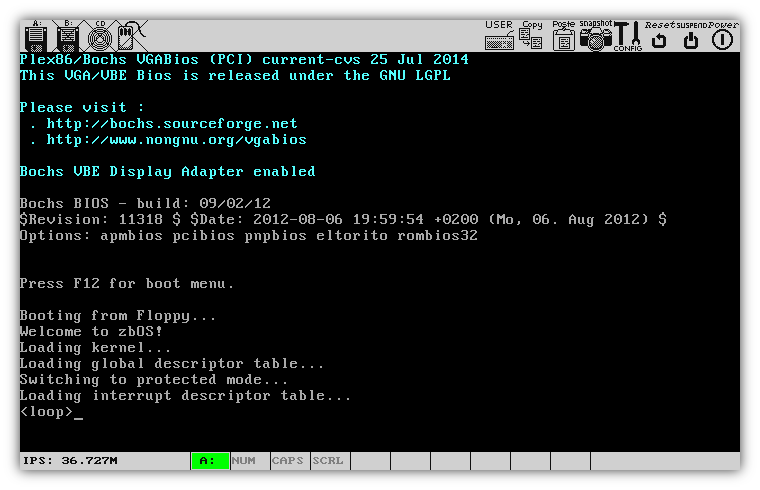
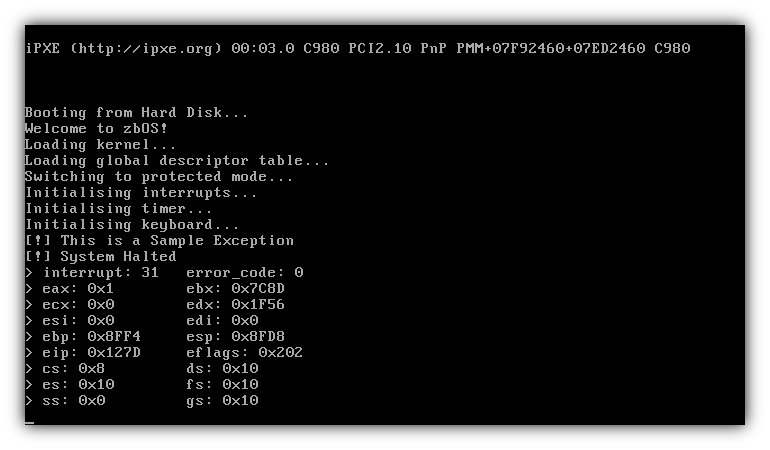
update screenshot

Changed region(s): [[0.0, 0.0311, 0.9987, 0.9956]]

diff --git a/README.md b/README.md
@@ -4,19 +4,19 @@
 
 zbOS is a UNIX-clone being built from scratch.
 
-![zbOS in Bochs](screenshot.png)
+![zbOS in QEMU](screenshot.png)
 
 ### What's been done:
 
 - [x] A custom bootloader capable of switching to protected mode and bootstrapping a kernel
-- [ ] a standard C library (libc) **(WIP)**
+- [ ] a standard C library (libc) **WIP**
 - [x] Interrupt handler
 - [ ] Device drivers
   - [x] video (hardware cursor, scrolling, ASCII escapes)
   - [x] clock (PIT timer)
   - [x] keyboard
   - [ ] filesystem (SFS? ramdisk?)
-- [ ] Memory management (paging, heap) **(WIP)**
+- [ ] Memory management (paging, heap) **WIP**
 - [ ] Process scheduling (multitasking)
 - [ ] the future (userland?)
 
@@ -31,8 +31,8 @@ zbOS is a UNIX-clone being built from scratch.
 ### Resources:
 
 - [OSDev.org](http://wiki.osdev.org) :point_left: this is all you need
-- [Nick Blundell's OpSys Lecture](https://www.cs.bham.ac.uk/~exr/lectures/opsys/10_11/lectures/os-dev.pdf)
-- [Bran's Kernel Development](http://www.osdever.net/bkerndev/index.php)
+- [Nick Blundell's OpSys Lecture Notes](https://www.cs.bham.ac.uk/~exr/lectures/opsys/10_11/lectures/os-dev.pdf)
+- [Bran on Kernel Development](http://www.osdever.net/bkerndev/index.php)
 - [JamesM's kernel development tutorial](http://www.jamesmolloy.co.uk/tutorial_html/)
 - [linux-insides](https://github.com/0xAX/linux-insides)
 
